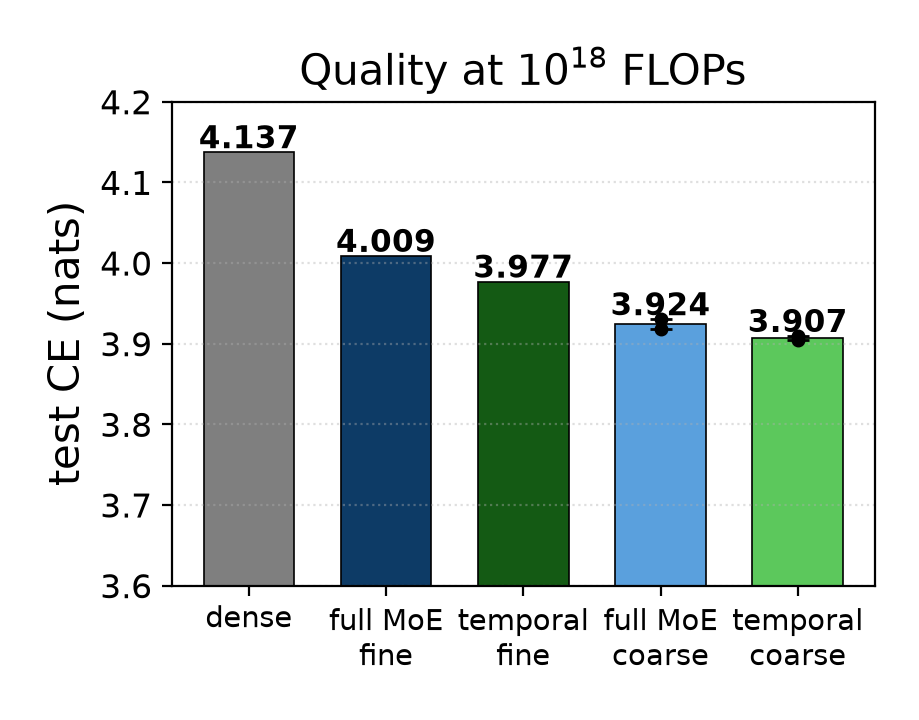
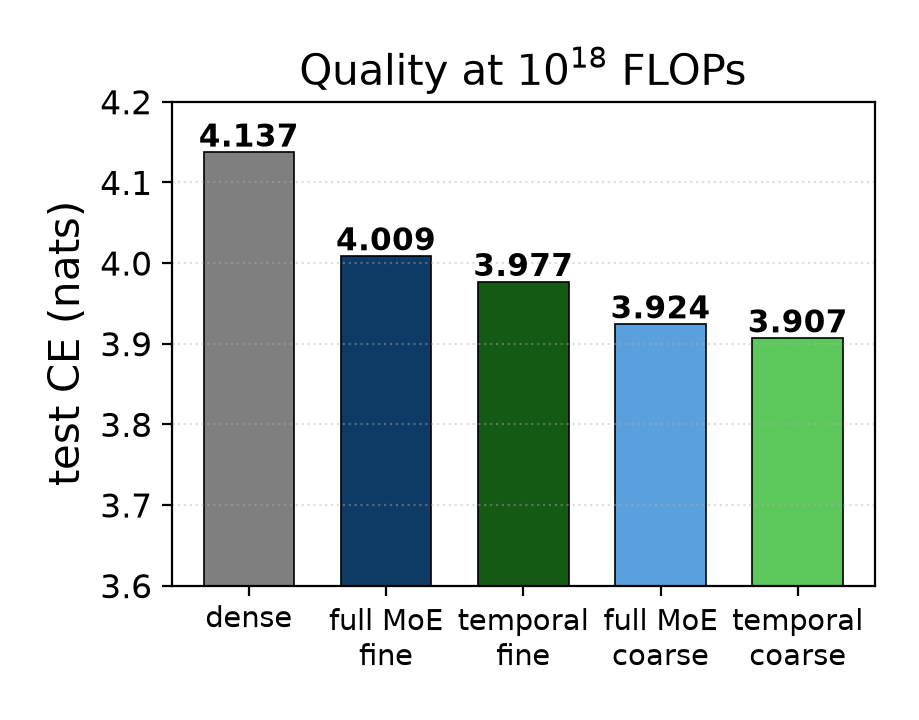
Paper: correct stale 1e18 numbers to test-final; plain bars (two-seed means, no error bars/dots)
- main.tex: eval-split labels -> test-set BPB/CE (caption, Method, Results);
  coarse cells 3.927/3.910 -> 3.924/3.907 (two-seed means of end-of-training
  test evals); 1e18 recovery 76% -> 75%; seed ranges -> 3.904-3.909 vs
  3.918-3.930 (every-temporal-seed-below-every-MoE-seed claim unchanged);
  appendix unmask-table cross-ref -> 'two-seed test mean 3.907 by 0.003'.
- plot_1e18.py: bars are plain (no error bars, no seed dots); the two-seed
  averaging is documented in the script's constants comment with pointers to
  the per-seed CSVs, per Noah - not in the figure caption.
- Figure + paper copy regenerated; main.pdf rebuilt (6 pp).

diff --git a/analysis/plots/plot_1e18.py b/analysis/plots/plot_1e18.py
@@ -2,9 +2,9 @@
 """1e18 (FLAME-MoE-38M-100M scale): dense floor vs full MoE (coarse & fine-grained) vs temporal.
 Test-set cross-entropy (nats, lower better), pythia-50k tokenizer, dclm. Single axes.
 Measured locally on one split: MoE coarse (6/64, 2 seeds), temporal coarse (6/64, 2 seeds),
-MoE fine (18/192), temporal fine (18/192). Coarse bars show the two-seed mean of the END-OF-TRAINING
-TEST evals (canonical series, train.log-verified; see results/ablations/FINDINGS.md section 7) with
-individual seed dots. Dense floor reused from the A6000 baseline (test 4.1373; same corpus/tokenizer,
+MoE fine (18/192), temporal fine (18/192). Coarse bars are the two-seed MEANS of the END-OF-TRAINING
+TEST evals (canonical series, train.log-verified; see results/ablations/FINDINGS.md section 7 and
+the constants comment below). Dense floor reused from the A6000 baseline (test 4.1373; same corpus/tokenizer,
 cross-data <~0.01 nats). Seed finals: results/ablations/t18_1e18_curves.csv (final_test_ce @2121)
 and flame38m_1e18_cells.csv.
 Output: results/phase0/figures/temporal_vs_dense_and_moe_1e18_crossentropy.png
@@ -28,29 +28,22 @@ if PAPER:
 # Only dense is A6000 cross-data (different split, within ~0.01 nats) — noted in the caption;
 # the other four are local, one shared split. All values = end-of-training TEST evals. Coarse arms:
 # two seeds each, bar = seed mean (moe (3.918414+3.930210)/2, temporal (3.909421+3.904324)/2).
-# Error bars ONLY where measured: two-seed half-ranges on the coarse bars (MoE 0.0059,
-# temporal 0.0025). Dense and the fine bars are single measurements — NO error bar drawn
-# (dense's ~0.01-nat cross-data comparability bound is stated in the caption instead).
-NAN = float("nan")
+# Plain bars, no error bars or seed dots. The coarse cells have 2 seeds and their bars are the
+# TWO-SEED MEANS of the end-of-training test evals: moe (3.918414+3.930210)/2 = 3.9243,
+# temporal (3.909421+3.904324)/2 = 3.9069 (seed spreads 0.006/0.003 nats — far below every claimed
+# gap; per-seed finals in results/ablations/t18_1e18_curves.csv + flame38m_1e18_cells.csv).
+# Dense and the fine bars are single runs (dense's ~0.01-nat cross-data bound noted in caption).
 ce     = [4.1373, 4.0087, 3.9768, 3.9243, 3.9069]     # coarse bars = two-seed means (test)
-yerr   = [NAN, NAN, NAN, 0.0059, 0.0025]              # measured coarse half-ranges only
 colors = ["#7f7f7f", "#0d3b66", "#145a14", "#5aa0dd", "#5cc85c"]
 labels = (["dense", "full MoE\nfine", "temporal\nfine", "full MoE\ncoarse", "temporal\ncoarse"] if PAPER else
           ["dense\nbaseline", "full MoE\nfine (18 of 192)", "temporal\nfine (18 of 192)",
            "full MoE\ncoarse (6 of 64)", "temporal\ncoarse (6 of 64)"])
 
 fig, ax = plt.subplots(figsize=(4.6, 3.6) if PAPER else (8.6, 5.8))
-bars = ax.bar(labels, ce, color=colors, width=0.66, edgecolor="k", linewidth=0.6,
-              yerr=yerr, capsize=(4 if PAPER else 5), error_kw=dict(lw=1.3, ecolor="k", zorder=5))
-for b, v, e in zip(bars, ce, yerr):
-    off = (e if e == e else 0)  # nan -> no bar drawn
-    ax.text(b.get_x()+b.get_width()/2, v + off + 0.005, f"{v:.3f}", ha="center",
+bars = ax.bar(labels, ce, color=colors, width=0.66, edgecolor="k", linewidth=0.6)
+for b, v in zip(bars, ce):
+    ax.text(b.get_x()+b.get_width()/2, v + 0.007, f"{v:.3f}", ha="center",
             fontsize=(11 if PAPER else 10.5), fontweight="bold")
-# individual seed finals (test) on the two-seed coarse bars
-SEEDS = {3: [3.918414, 3.930210], 4: [3.909421, 3.904324]}   # moe coarse, temporal coarse
-for i, vals in SEEDS.items():
-    x = bars[i].get_x() + bars[i].get_width()/2
-    ax.scatter([x]*len(vals), vals, s=16, color="k", zorder=6)
 ax.grid(True, axis="y", ls=":", alpha=0.4)
 
 if PAPER:
@@ -69,7 +62,7 @@ else:
                 arrowprops=dict(arrowstyle="->", color="green", lw=1.2))
     ax.text(2.55, 4.05, "temporal beats its own-granularity full MoE", ha="left", fontsize=8, color="green")
     rec = (4.1373 - 3.9768) / (4.1373 - 3.9243) * 100
-    ax.text(0.985, 0.06, f"temporal (fine) recovers ~{rec:.0f}% of the\ndense→(coarse full-MoE) gap; coarse temporal\nbeats coarse MoE on BOTH seeds (dots)",
+    ax.text(0.985, 0.06, f"temporal (fine) recovers ~{rec:.0f}% of the\ndense→(coarse full-MoE) gap; coarse temporal\nbeats coarse MoE on both seeds",
             transform=ax.transAxes, ha="right", va="bottom", fontsize=8.3, color="dimgray")
     ax.set_ylim(3.6, 4.25)
     ax.set_ylabel("test cross-entropy (nats, lower better)")
@@ -79,8 +72,7 @@ else:
              "Test-set cross-entropy (CE, nats, lower better) at 10^18 FLOPs (~38M-active model, pythia-50k, "
              "dclm). Hue = method (dense gray, MoE blue, temporal green); shade = granularity (coarse normal, "
              "fine-grained dark). 'temporal' = rolling residency (keep top-k resident, swap 1/token). Coarse "
-             "bars = two-seed means with individual seeds as dots and measured half-range error bars; fine bars "
-             "and dense are single runs (no error bar); dense is A6000 cross-data (different val "
+             "dense is A6000 cross-data (different val "
              "split, within ~0.01 nats); the other four share one local split.", ha="center", fontsize=7.8, wrap=True)
     fig.tight_layout(rect=[0, 0.09, 1, 1])
     out = f"{REPO}/results/phase0/figures/temporal_vs_dense_and_moe_1e18_crossentropy.png"

diff --git a/paper/main.tex b/paper/main.tex
@@ -105,7 +105,7 @@ sizes (0.77M--15.1M active non-embedding parameters) with locked hyperparameters
 tokenizer-invariant bits-per-byte (BPB, seed noise $\approx$0.003). Each shape gets a dense floor
 matched to the MoE's active parameters and FLOPs, and we define \emph{recovery} as
 $(\text{dense}-\text{temporal})/(\text{dense}-\text{MoE})$. At $10^{18}$ FLOPs we replicate
-FLAME-MoE-38M-100M exactly (4.45B tokens) and report validation cross-entropy.
+FLAME-MoE-38M-100M exactly (4.45B tokens) and report test-set cross-entropy.
 
 \begin{figure}[t]
   \centering
@@ -117,15 +117,14 @@ FLAME-MoE-38M-100M exactly (4.45B tokens) and report validation cross-entropy.
     \centering
     \includegraphics[width=\linewidth]{figures/temporal_vs_dense_and_moe_1e18_crossentropy_nocaption.png}
   \end{minipage}
-  \caption{\textbf{Left,} isoFLOP curves (validation BPB, lower is better; color =
+  \caption{\textbf{Left,} isoFLOP curves (test-set BPB, lower is better; color =
   method, shade = granularity (coarse normal / fine-grained dark), marker = compute budget (circle
   $10^{16}$, triangle $10^{17}$)). Temporal MoE (green) lands inside the dense-to-MoE band at every
   size and preserves both baselines' compute-optimal shapes; recovery at the optima is 72--77\%
   fine-grained and 82\% coarse. \textbf{Right,}
-  $10^{18}$-FLOP points (validation CE; colors as left). Error bars: measured two-seed
-  ranges (coarse), method-matched estimates (single-seed fine), $\pm$0.01 cross-data uncertainty
-  (dense; others share a local split). Dense 4.137, fine-grained MoE 4.009, fine-grained
-  temporal 3.977, coarse MoE 3.927, coarse temporal 3.910; temporal matches or exceeds its
+  $10^{18}$-FLOP points (test-set CE; colors as left; dense is cross-data, within $\sim$0.01,
+  the others share one local split). Dense 4.137, fine-grained MoE 4.009, fine-grained
+  temporal 3.977, coarse MoE 3.924, coarse temporal 3.907; temporal matches or exceeds its
   full-MoE counterpart at both granularities.}
   \label{fig:isoflop}
 \end{figure}
@@ -138,12 +137,12 @@ FLAME-MoE-38M-100M exactly (4.45B tokens) and report validation cross-entropy.
 82\% coarse at both budgets) with only $k$ experts ever resident. The isoFLOP parabola and its minimum match the dense and
 MoE baselines, so the constraint does not distort scaling geometry.
 
-\textbf{Paper scale.} At $10^{18}$ FLOPs (Figure~\ref{fig:isoflop}, right) recovery is 76\%
+\textbf{Paper scale.} At $10^{18}$ FLOPs (Figure~\ref{fig:isoflop}, right) recovery is 75\%
 against the strongest full MoE, consistent with the smaller budgets. In fact, sometimes the
 mechanism appears nearly lossless, here outperforming
 its equally fine-grained MoE counterpart (3.977 vs.\ 4.009 nats). At the coarse granularity, run
 with two seeds per arm, it appears to surpass the strongest full MoE outright: every temporal
-seed lands below every MoE seed (3.907--3.912 vs.\ 3.921--3.934 nats).
+seed lands below every MoE seed (3.904--3.909 vs.\ 3.918--3.930 nats).
 
 \textbf{The constraint is internalized.} Figure~\ref{fig:locality} shows why this works. Trained
 under residency, the router's \emph{unconstrained} preferences become temporally banded, and its
@@ -399,7 +398,7 @@ median 15{,}932, with no word-list experts even in the tail.
   \caption{Constraint swap. Unmasking makes every expert resident for a trained temporal model;
   imposing puts a trained full MoE under rolling residency. Held-out BPB except the $10^{18}$
   row, which is validation CE on the analysis batch (its native value accordingly differs from
-  Figure~\ref{fig:isoflop}'s full-split 3.910 by 0.006). Imposing costs two to five times more
+  Figure~\ref{fig:isoflop}'s two-seed test mean 3.907 by 0.003). Imposing costs two to five times more
   than unmasking, the asymmetry expected if full-MoE experts are token-bound: a token denied its
   bespoke expert has nowhere to go, while a contextual expert serves its neighborhood
   regardless. The fine-grained full-MoE row is the sigmoid-router control, whose artifacts were
